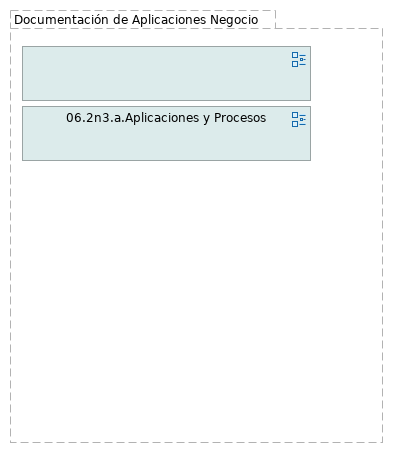
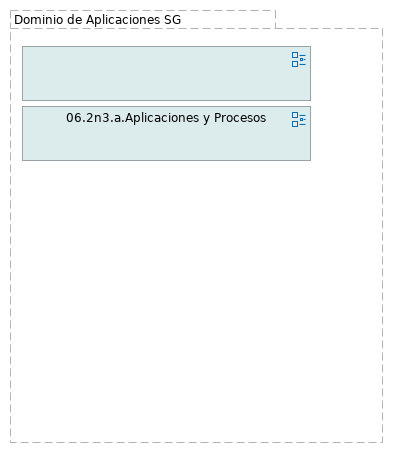
accion-actualizacionContd

Changed region(s): [[0.0611, 0.0309, 0.6718, 0.0618]]

diff --git a/contd/report/index.html b/contd/report/index.html
@@ -470,7 +470,7 @@
 													<li class="tree-element  "><a href="id-e61caa0dc3cc436aa918b17e0f565135/elements/id-86f23761abaf42c793811ab2e079c74b.html" target="element"> Plan de entregas / iteraci&#243;n </a></li>
 													<li class="tree-element  "><a href="id-e61caa0dc3cc436aa918b17e0f565135/elements/id-2c7df20247e149c7b367a3b05b79568f.html" target="element"> Objetivos OTIC </a></li>
 													<li class="tree-element  "><a href="id-e61caa0dc3cc436aa918b17e0f565135/elements/id-e33bf194293246ccacdc3879075c4375.html" target="element"> 3. Acciones </a></li>
-													<li class="tree-element "><a href="id-e61caa0dc3cc436aa918b17e0f565135/elements/id-f40091e8ad3f4c5584f882cc8f42ff7e.html" target="element"> Documentaci&#243;n de Aplicaciones Negocio </a></li>
+													<li class="tree-element "><a href="id-e61caa0dc3cc436aa918b17e0f565135/elements/id-f40091e8ad3f4c5584f882cc8f42ff7e.html" target="element"> Dominio de Aplicaciones SG </a></li>
 													<li class="tree-element "><a href="id-e61caa0dc3cc436aa918b17e0f565135/elements/id-416114683c2c47bcbb0a3d17d284beec.html" target="element"> Anexos </a></li>
 													<li class="tree-element "><a href="id-e61caa0dc3cc436aa918b17e0f565135/elements/id-f0e8067a43474d45a2913cf1686a8b6c.html" target="element"> Sistemas de gesti&#243;n administrativa y financiera </a></li>
 													<li class="tree-element "><a href="id-e61caa0dc3cc436aa918b17e0f565135/elements/id-bf5d3f7aa7754c2eab2ce7c6a9405e05.html" target="element"> Servicios de Ingenier&#237;a $APP $CLIENTE </a></li>

diff --git a/contd/report/id-e61caa0dc3cc436aa918b17e0f565135/elements/model.html b/contd/report/id-e61caa0dc3cc436aa918b17e0f565135/elements/model.html
@@ -1044,7 +1044,7 @@
 													dataProperties.push({conceptid:"id-e33bf194293246ccacdc3879075c4375", propkey:decodeURL("destino"), propvalue:decodeURL("doc")});
 
 									dataFoldersContent.push({folderid:"id-da067e1607c447c9adea1120cbf84536", contentid:"id-f40091e8ad3f4c5584f882cc8f42ff7e", contenttype:"Grouping"});
-										dataElements.push({id:"id-f40091e8ad3f4c5584f882cc8f42ff7e", type:"Grouping", specialization:decodeURL(""), name:decodeURL("Documentaci%C3%B3n+de+Aplicaciones+Negocio"), documentation:decodeURL("")});
+										dataElements.push({id:"id-f40091e8ad3f4c5584f882cc8f42ff7e", type:"Grouping", specialization:decodeURL(""), name:decodeURL("Dominio+de+Aplicaciones+SG"), documentation:decodeURL("")});
 									dataFoldersContent.push({folderid:"id-da067e1607c447c9adea1120cbf84536", contentid:"id-416114683c2c47bcbb0a3d17d284beec", contenttype:"Grouping"});
 										dataElements.push({id:"id-416114683c2c47bcbb0a3d17d284beec", type:"Grouping", specialization:decodeURL(""), name:decodeURL("Anexos"), documentation:decodeURL("")});
 									dataFoldersContent.push({folderid:"id-da067e1607c447c9adea1120cbf84536", contentid:"id-f0e8067a43474d45a2913cf1686a8b6c", contenttype:"Grouping"});

diff --git a/contd/report/id-e61caa0dc3cc436aa918b17e0f565135/elements/id-f40091e8ad3f4c5584f882cc8f42ff7e.html b/contd/report/id-e61caa0dc3cc436aa918b17e0f565135/elements/id-f40091e8ad3f4c5584f882cc8f42ff7e.html
@@ -2,7 +2,7 @@
 <html class="frame" lang="en">
 <head>
 	<meta http-equiv="Content-Type" content="text/html;charset=utf-8">
-	<title>Documentación de Aplicaciones Negocio</title>
+	<title>Dominio de Aplicaciones SG</title>
 
 	<!-- JQUERY (use 1.x branch to be compatible with IE 6/7/8) -->
 	<script type="text/javascript" src="../../lib/jquery/js/jquery-1.11.2.min.js"></script>
@@ -21,7 +21,7 @@
 
 		<div class="panel-heading root-panel-heading">
             <!-- Name -->
-               <b>Documentaci&#243;n de Aplicaciones Negocio</b>
+               <b>Dominio de Aplicaciones SG</b>
 
             <!-- If a View with Viewpoint -->
 			   (<span class="i18n-elementtype-Grouping"></span>)

diff --git a/contd/report/id-e61caa0dc3cc436aa918b17e0f565135/views/id-051585f7d8fe43cb9015cdcda2d261dd.html b/contd/report/id-e61caa0dc3cc436aa918b17e0f565135/views/id-051585f7d8fe43cb9015cdcda2d261dd.html
@@ -100,7 +100,7 @@
 								</thead>
 								<tbody>
 											<tr>
-											    <td> <a href="../elements/id-f40091e8ad3f4c5584f882cc8f42ff7e.html" target="element"> Documentaci&#243;n de Aplicaciones Negocio </a> </td>
+											    <td> <a href="../elements/id-f40091e8ad3f4c5584f882cc8f42ff7e.html" target="element"> Dominio de Aplicaciones SG </a> </td>
 											    <td> <a href="../elements/id-f40091e8ad3f4c5584f882cc8f42ff7e.html" target="element" class="i18n-elementtype-Grouping">
 											    </a> </td>
 											</tr>

diff --git a/contd/report/id-e61caa0dc3cc436aa918b17e0f565135/views/id-421f8e047542418185c8d92411fdd466.html b/contd/report/id-e61caa0dc3cc436aa918b17e0f565135/views/id-421f8e047542418185c8d92411fdd466.html
@@ -84,7 +84,7 @@
 								</thead>
 								<tbody>
 											<tr>
-											    <td> <a href="../elements/id-f40091e8ad3f4c5584f882cc8f42ff7e.html" target="element"> Documentaci&#243;n de Aplicaciones Negocio </a> </td>
+											    <td> <a href="../elements/id-f40091e8ad3f4c5584f882cc8f42ff7e.html" target="element"> Dominio de Aplicaciones SG </a> </td>
 											    <td> <a href="../elements/id-f40091e8ad3f4c5584f882cc8f42ff7e.html" target="element" class="i18n-elementtype-Grouping">
 											    </a> </td>
 											</tr>

diff --git a/contd/mddocx/06.2n2.SIdelAnalisisdeEntorno.md b/contd/mddocx/06.2n2.SIdelAnalisisdeEntorno.md
@@ -2,7 +2,7 @@
 <div style="page-break-before: always;"></div>
 \newpage
 
-# Documentación de Aplicaciones Negocio
+# Dominio de Aplicaciones SG
 
 ## Análisis de Entorno Sistemas de Información SG
 

diff --git a/contd/mdpdf/06.2n2.SIdelAnalisisdeEntorno.md b/contd/mdpdf/06.2n2.SIdelAnalisisdeEntorno.md
@@ -2,7 +2,7 @@
 <div style="page-break-before: always;"></div>
 \newpage
 
-# Documentación de Aplicaciones Negocio
+# Dominio de Aplicaciones SG
 
 ## Análisis de Entorno Sistemas de Información SG
 

diff --git a/contd/mdtex/06.2n2.SIdelAnalisisdeEntorno.md b/contd/mdtex/06.2n2.SIdelAnalisisdeEntorno.md
@@ -2,7 +2,7 @@
 <div style="page-break-before: always;"></div>
 \newpage
 
-# Documentación de Aplicaciones Negocio
+# Dominio de Aplicaciones SG
 
 ## Análisis de Entorno Sistemas de Información SG
 
